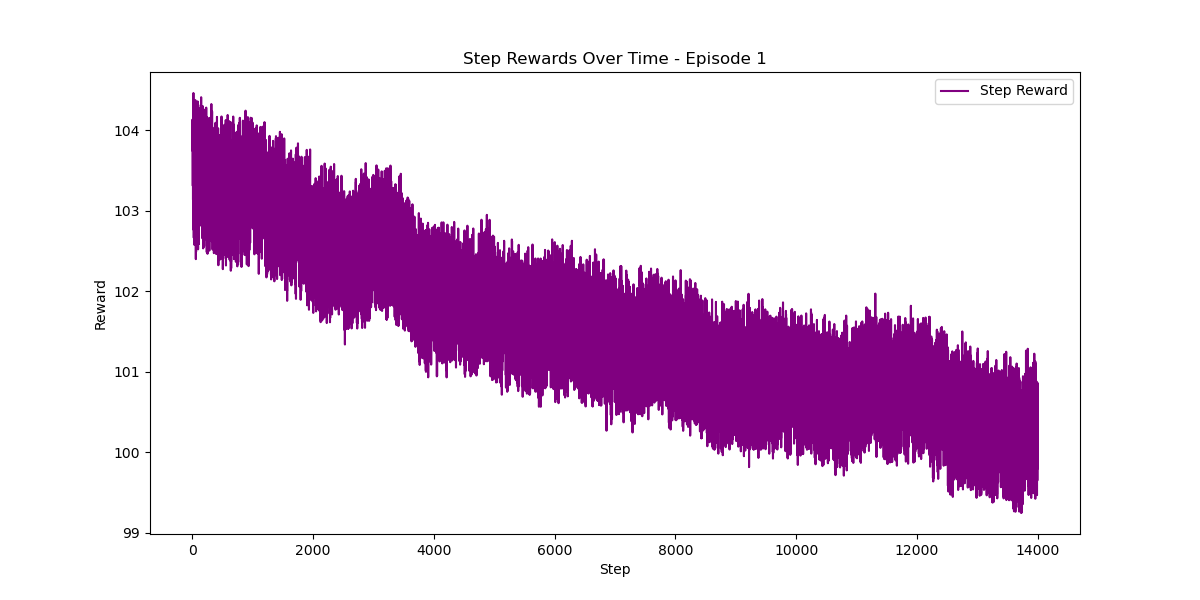
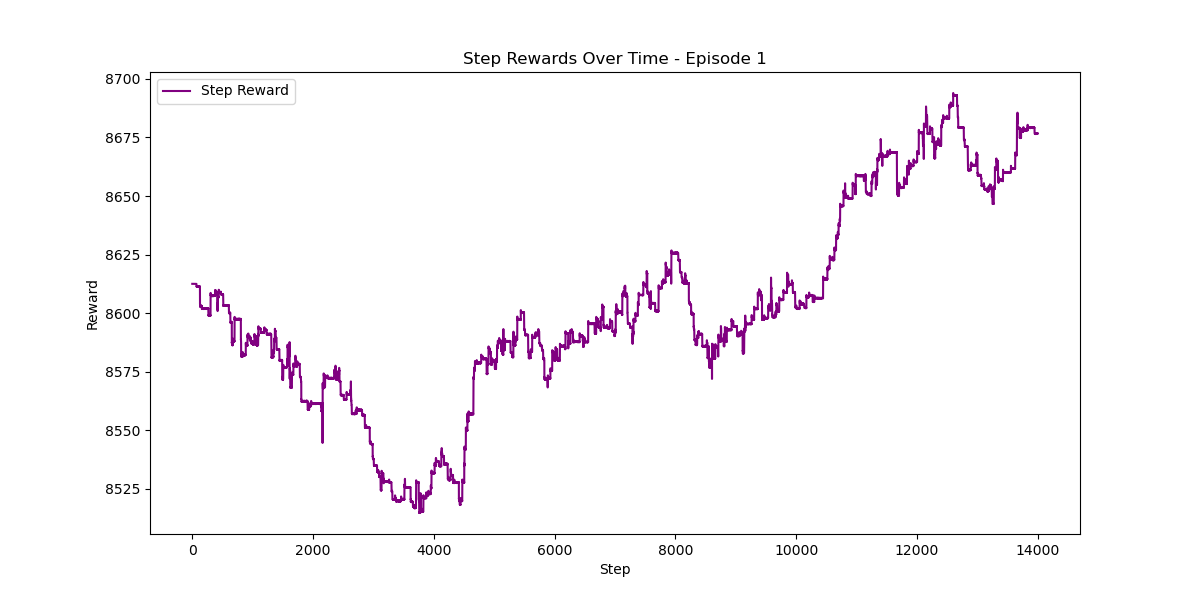
Upwards trend successful - basic version
will be updated with commented out stuff now

diff --git a/environment/env_continuous.py b/environment/env_continuous.py
@@ -10,7 +10,7 @@ class ContinuousMarketEnv(BaseMarketEnv):
     def __init__(self, data, reward_type='default'):
         super(ContinuousMarketEnv, self).__init__(data)
         # Adjust action space to include trade size (units) in addition to price adjustments
-        self.action_space = spaces.Box(low=np.array([-1, -5]), high=np.array([1, 5]), dtype=np.float32)  # Trade size between -5 and 5 units
+        self.action_space = spaces.Box(low=np.array([-1, -10]), high=np.array([1, 10]), dtype=np.float32)
         self.inventory = 0 # Inventory for the agent
         self.cash = 10000 # Cash for the agent
         self.trades = [] # List to store executed trades
@@ -18,16 +18,18 @@ class ContinuousMarketEnv(BaseMarketEnv):
         self.past_pnls = []  # To store past PnL values for risk metrics
         self.trade_flows = []  # To store order flow imbalance data
         self.current_step = 0
+        self.action_count = 0
 
     # The reset method initializes the environment at the beginning of an episode.
     # It resets the current step, inventory, cash, and trade history.
     def reset(self):
         self.current_step = np.random.randint(0, 10)  # Start from a random step within the first 10 steps
-        self.inventory = np.random.randint(0, 5)  # Start with a random inventory level
+        self.inventory = 0  # Start with a random inventory level
         self.cash = 9000 + np.random.uniform(-1000, 1000)  # Add a random variation to the cash
         self.trades = []
         self.past_pnls = []
         self.trade_flows = []
+        self.action_count = 0
         return self.data.iloc[self.current_step].values
 
     # The step method takes an action as input and returns the next state, reward, done flag, and additional information.
@@ -43,24 +45,25 @@ class ContinuousMarketEnv(BaseMarketEnv):
         # Enhanced action-to-order mapping logic
         bid_adjustment = bid_adjustment * spread
         executed_bid = best_bid + bid_adjustment
-        executed_ask = best_ask - bid_adjustment  # Reflecting potential symmetrical adjustments
-        
-        # Simulate slippage by slightly adjusting the executed price
-        slippage = np.random.uniform(0, 0.001)  # Random slippage within a small range
-        executed_bid *= (1 + slippage)
-        executed_ask *= (1 - slippage)
+        executed_ask = best_ask - bid_adjustment  # Reflecting potential symmetrical adjustment
+
+        # Introduce slippage: simulate market friction by slightly adjusting the executed prices
+        #slippage = np.random.uniform(0, 0.001)  # Random slippage within a small range
+        #executed_bid *= (1 + slippage)
+        #executed_ask *= (1 - slippage)
        
         action_taken = False
         
-        # implementing dynamic trade sizing based on recent PnL volatility to be more resilient to adverse market conditions
-        recent_pnl_volatility = np.std(self.past_pnls[-10:]) if len(self.past_pnls) > 1 else 0
-        trade_size = int(trade_size / (1 + recent_pnl_volatility))  # Reduce size in high volatility
+        # Implementing dynamic trade sizing based on recent PnL volatility to be more resilient to adverse market conditions
+        #recent_pnl_volatility = np.std(self.past_pnls[-10:]) if len(self.past_pnls) > 1 else 0
+        #trade_size = int(trade_size / (1 + recent_pnl_volatility))  # Reduce size in high volatility
+
+        action_taken = False
 
         if trade_size != 0:  # Ensure trade size is not zero
             # Buy action (if cash is sufficient)
             if trade_size > 0 and self.cash >= executed_bid * trade_size:
-                # Simulating the effect that large orders can impact prices.  will teach the agent to split orders or be cautious with large trades to minimize impact
-                self.data.iloc[self.current_step]['Ask Price 1'] += trade_size * 0.001 
+                self.inventory += trade_size
                 self.cash -= executed_bid * trade_size
                 self.trades.append(("BUY", executed_bid, trade_size))
                 action_taken = True
@@ -68,12 +71,14 @@ class ContinuousMarketEnv(BaseMarketEnv):
 
             # Sell action (if inventory is sufficient)
             if trade_size < 0 and self.inventory >= abs(trade_size):
-                self.data.iloc[self.current_step]['Bid Price 1'] -= abs(trade_size) * 0.001 
                 self.inventory += trade_size  # trade_size is negative, so this decreases inventory
                 self.cash += abs(trade_size) * executed_ask
                 self.trades.append(("SELL", executed_ask, abs(trade_size)))
                 action_taken = True
                 print(f"SELL: {abs(trade_size)} units at {executed_ask}, Inventory: {self.inventory}, Cash: {self.cash}")
+
+            # Increment the action counter when an action is taken
+            self.action_count += 1
 
         done = self.advance_step()
         # Calculate reward based on the action taken
@@ -102,19 +107,14 @@ class ContinuousMarketEnv(BaseMarketEnv):
 
         if self.reward_type == 'default':
             reward = self._default_reward(pnl, action_taken, half_spread_percentage, implementation_shortfall, order_flow_imbalance, rsi, mean_average_pricing)
-
         elif self.reward_type == 'asymmetrical':
             reward = self._asymmetrical_reward(pnl, action_taken)
-
         elif self.reward_type == 'realized_pnl':
             reward = self._realized_pnl_reward(pnl)
-
         elif self.reward_type == 'trade_completion':
             reward = self._trade_completion_reward(pnl, action_taken)
-
         elif self.reward_type == 'spread_capture':
             reward = self._spread_capture_reward(pnl, action_taken)
-
         else:
             reward = self._default_reward(pnl, action_taken, half_spread_percentage, implementation_shortfall, order_flow_imbalance, rsi, mean_average_pricing)  # Fallback to default
 
@@ -124,72 +124,23 @@ class ContinuousMarketEnv(BaseMarketEnv):
     # This is the main reward function used in the environment.
     def _default_reward(self, pnl, action_taken, half_spread_percentage, implementation_shortfall, order_flow_imbalance, rsi, mean_average_pricing):
         # Reward for making a trade
-        trade_reward = 0.1 if action_taken else 0
+        trade_reward = 1.0 if action_taken else 0  # Increased trade reward to encourage more actions
 
         # Inventory penalty to encourage balanced inventory (not too high or too low)
-        target_inventory = 5  # Define a target inventory level
-        inventory_penalty = max(0, abs(self.inventory - target_inventory)) * 0.01  # Reduced penalty for inventory deviation
+        target_inventory = 2  # Adjusted target inventory for simplicity
+        inventory_penalty = max(0, abs(self.inventory - target_inventory)) * 0.05  # Simple penalty for deviating from target inventory
 
-        # Reward for maintaining some inventory, penalize for zero inventory
-        balance_reward = max(self.inventory, 0) * 0.05  # Reduced reward for holding inventory
-
-        # Cash management penalty (discourage negative cash) but less severe
-        cash_penalty = max(0, -self.cash) * 0.005  # Slightly reduced penalty for negative cash
-
-        # Initialize mid_price to a default value
+        # Execution quality reward/penalty based on how close the executed price is to the mid-market price
         mid_price = (self.data.iloc[self.current_step]['Bid Price 1'] + self.data.iloc[self.current_step]['Ask Price 1']) / 2
-
-        # Execution quality reward
         execution_quality_reward = 0
         if self.trades:
             last_trade = self.trades[-1]
             trade_type, executed_price, trade_size = last_trade
-            
-            # Calculate execution quality reward based on how close the executed price is to the mid-price
-            execution_quality_reward = -abs(executed_price - mid_price) * 0.005  # Reduced impact
 
-            if trade_type == "SELL":
-                buy_prices = [trade[1] for trade in self.trades if trade[0] == "BUY"]
-                if buy_prices:
-                    average_buy_price = np.mean(buy_prices)
-                    profit_or_loss = executed_price - average_buy_price
-                    execution_quality_reward += (profit_or_loss * trade_size * 0.005 if profit_or_loss > 0 else profit_or_loss * trade_size * 0.01)
+            execution_quality_reward = -abs(executed_price - mid_price) * 0.05  # Penalty for execution far from mid-price
 
-            # Scale transaction cost based on trade size
-            transaction_cost = 0.001 * executed_price * trade_size
-            execution_quality_reward -= transaction_cost
-
-        # Risk penalty based on variance of recent PnL values
-        recent_pnls = self.past_pnls[-10:]  # Consider the last 10 PnL values
-        if len(recent_pnls) > 1:
-            pnl_variance = np.var(recent_pnls)
-            pnl_mean = np.mean(recent_pnls)
-            pnl_std = np.std(recent_pnls)
-            risk_penalty = pnl_variance * 0.01  # Adjust the penalty factor as needed
-            if pnl_std > 0:
-                sharpe_ratio_penalty = pnl_mean / pnl_std
-                risk_penalty += sharpe_ratio_penalty * 0.01
-        else:
-            risk_penalty = 0
-        
-        # Market volatility and liquidity penalties
-        market_volatility = np.std(self.data['Bid Price 1'].iloc[max(0, self.current_step - 10):self.current_step])
-        market_liquidity = (self.data.iloc[self.current_step]['Bid Size 1'] + self.data.iloc[self.current_step]['Ask Size 1']) / 2
-        holding_penalty = self.inventory * 0.01 * (market_volatility / market_liquidity)
-        
-        # Time-dependent inventory holding cost
-        holding_time_penalty = self.inventory * 0.001 * self.current_step  # Increase with time
-        holding_penalty += holding_time_penalty
-        
-        # Total reward calculation
-        reward = pnl - inventory_penalty - cash_penalty - risk_penalty - holding_penalty + execution_quality_reward + balance_reward + trade_reward
-
-        # Additional metrics adjustments
-        reward += (half_spread_percentage - 0.01) * 0.01  # Further reduced impact
-        reward -= implementation_shortfall * 0.01  # Further reduced penalty
-        reward -= abs(order_flow_imbalance) * 0.01  # Further reduced penalty
-        reward -= abs(rsi - 50) * 0.005  # Further reduced penalty
-        reward -= abs(mean_average_pricing - mid_price) * 0.005  # Further reduced penalty
+        # Total reward is the sum of the components
+        reward = pnl - inventory_penalty + execution_quality_reward + trade_reward
 
         return reward
 

diff --git a/agent/rl_agent.py b/agent/rl_agent.py
@@ -4,12 +4,12 @@ import numpy as np
 import pandas as pd
 
 class PPOAgent:
-    def __init__(self, env, policy_network, value_network, learning_rate=3e-4, gamma=0.9, clip_range=0.1, epochs=20, batch_size=128, lambda_=0.95, entropy_coeff=0.01):
+    def __init__(self, env, policy_network, value_network, learning_rate=3e-4, gamma=0.9, clip_range=0.1, epochs=20, batch_size=128, lambda_=0.95, entropy_coeff=0.05):
         self.env = env
         self.policy_network = policy_network
         self.value_network = value_network
 
-        # Fine-tune the learning rate, gamma, clip range, epochs, batch size, and lambda
+        # Fine-tune the learning rate, gamma, clip range, epochs, batch size, lambda, and entropy coefficient
         self.optimizer = Adam(learning_rate=learning_rate)
         self.gamma = gamma  # Discount factor
         self.clip_range = clip_range  # Clipping range for PPO - Limits the change in policy updates to improve stability.
@@ -44,8 +44,7 @@ class PPOAgent:
             value_pred = self.value_network(state)
             next_value_pred = self.value_network(next_state)
 
-            # Calculate advantage
-            # The advantage is calculated using the Generalized Advantage Estimation (GAE) method
+            # Calculate advantage using the Generalized Advantage Estimation (GAE) method
             delta = reward + (1 - done) * self.gamma * next_value_pred - value_pred
             advantage = delta + self.gamma * self.lambda_ * (1 - done) * next_value_pred
 
@@ -56,19 +55,14 @@ class PPOAgent:
             clipped_ratio = tf.clip_by_value(ratio, 1 - self.clip_range, 1 + self.clip_range)
             policy_loss = -tf.reduce_mean(tf.minimum(ratio * advantage, clipped_ratio * advantage))
 
-            # Calculate entropy
-            # Assuming action_pred are logits, apply softmax if you need probabilities
-            # action_probs = tf.nn.softmax(action_pred)  # Uncomment if necessary
-            # entropy = -tf.reduce_mean(tf.reduce_sum(action_probs * tf.math.log(action_probs + 1e-10), axis=1))
-            
-            # Since this is a continuous action space, we use the entropy of a Gaussian distribution
-            entropy = -0.5 * tf.reduce_sum(1 + tf.math.log(2 * np.pi * tf.clip_by_value(tf.square(action_pred), 1e-10, np.inf)), axis=1)
-            entropy_loss = -self.entropy_coeff * tf.reduce_mean(entropy)
+            # Increase entropy to encourage exploration
+            #entropy = -0.5 * tf.reduce_sum(1 + tf.math.log(2 * np.pi * tf.clip_by_value(tf.square(action_pred), 1e-10, np.inf)), axis=1)
+            #entropy_loss = -self.entropy_coeff * tf.reduce_mean(entropy)
             
             # Value loss for better value function approximation
             value_loss = tf.reduce_mean(tf.square(reward + (1 - done) * self.gamma * next_value_pred - value_pred)) 
             # Total loss
-            loss = policy_loss + 0.5 * value_loss + entropy_loss
+            loss = policy_loss + 0.5 * value_loss #+ entropy_loss
 
         # Apply the computed gradients to update network parameters
         grads = tape.gradient(loss, self.policy_network.trainable_variables + self.value_network.trainable_variables)
